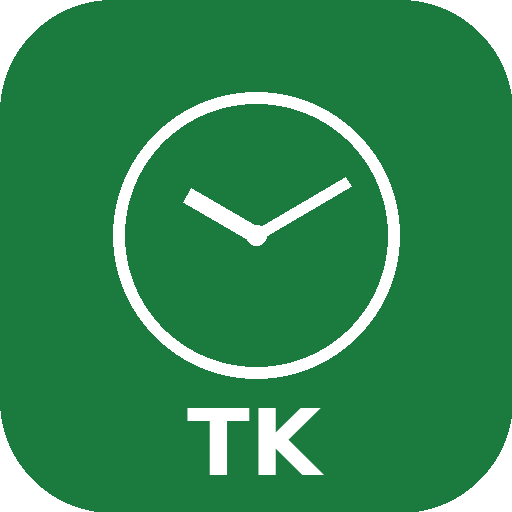
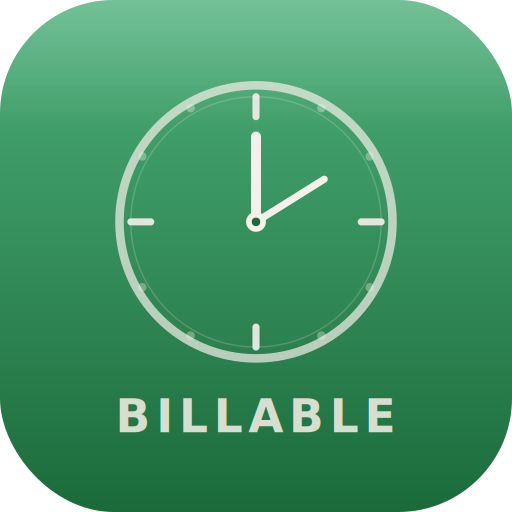
Add files via upload

diff --git a/index.html b/index.html
@@ -5,10 +5,10 @@
 <meta name="viewport" content="width=device-width, initial-scale=1.0, user-scalable=no, viewport-fit=cover">
 <meta name="apple-mobile-web-app-capable" content="yes">
 <meta name="apple-mobile-web-app-status-bar-style" content="default">
-<meta name="apple-mobile-web-app-title" content="TimeKeep">
+<meta name="apple-mobile-web-app-title" content="Billable">
 <link rel="manifest" href="manifest.json">
 <link rel="apple-touch-icon" href="icon-192.png">
-<title>TimeKeep</title>
+<title>Billable</title>
 <link rel="preconnect" href="https://fonts.googleapis.com">
 <link href="https://fonts.googleapis.com/css2?family=IBM+Plex+Mono:wght@400;500;600&family=Source+Sans+3:wght@400;500;600;700&display=swap" rel="stylesheet">
 <style>
@@ -554,7 +554,7 @@
       </div>
     </div>
   </div>
-  <div style="text-align:center;padding:20px 0 10px;font-size:12px;color:var(--text-muted);letter-spacing:0.5px">TimeKeeper v0.5</div>
+  <div style="text-align:center;padding:20px 0 10px;font-size:12px;color:var(--text-muted);letter-spacing:0.5px">Billable v0.6</div>
 </div>
 
 <div class="nav">
@@ -707,7 +707,8 @@ function renderTimers() {
   function renderCard(m, isRecent) {
     const t=timers[m.id], el=getElapsed(m.id), isRun=t?.running;
     const inc=m.increment||0.10;
-    const saved=entries.filter(e=>e.matterId===m.id&&isToday(e.timestamp)).length;
+    const countId = m.taskLabel ? (m.parentId || m.id) : m.id;
+    const saved=entries.filter(e=>e.matterId===countId&&isToday(e.timestamp)).length;
 
     // Build display lines
     let numberLine = '';
@@ -1875,7 +1876,7 @@ async function cloudUploadBackup() {
   // Build readable text report
   const now = new Date();
   let lines = [];
-  lines.push('TIMEKEEPER BACKUP');
+  lines.push('BILLABLE BACKUP');
   lines.push(`Exported: ${now.toLocaleString()}`);
   lines.push('='.repeat(50));
 

diff --git a/service-worker.js b/service-worker.js
@@ -1,4 +1,4 @@
-const CACHE_NAME = 'timekeeper-v1';
+const CACHE_NAME = 'billable-v1';
 const ASSETS = [
   './',
   './index.html',
